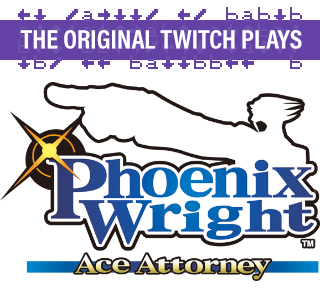
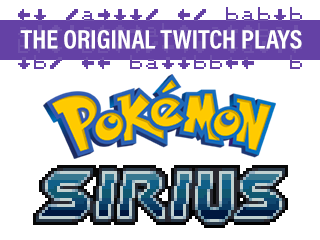
Sirius Update
This is a very Sirius one

diff --git a/description/active/runs/02 Commands.md b/description/active/runs/02 Commands.md
@@ -1,16 +1,20 @@
-For questions about any **!** command, use **!help [command]** to be whispered by the bot for more info. For a full list of commands, type **!commands**. Alternatively, go [here](https://twitchplayspokemon.tv/commands) for an in-depth explanation of all commands available on stream.
+For questions about any **!** command, use **!help [command name]** to be whispered by the bot for more info. Example: **!help balance**. For a full list of commands, type **!commands**. Alternatively, go [here](https://twitchplayspokemon.tv/commands) for an in-depth explanation of all commands available on stream.
 
-Currently playing **Phoenix Wright: Ace Attorney - Justice for All**.
-
-## Touchscreen Commands
-
-You can use **>** for coordinates to drag the touchscreen (**0,0>100,100**). Coordinates can be held down (**20,234-**), as well as combining them into to a regular command (**40,70+a**). Touchscreen commands cannot combine with themselves. The [TPPInputAssist Touchscreen Extension](https://github.com/chfoo/tppinputassist), made by Chfoo, can be used to make tapping in specific places of the screen easier by using your mouse, instead of having to type out the coordinates. Screen resolution is 256x192.
+Currently playing **Pokémon Sirius**.
 
 ## Available Commands
 
-Valid commands for **Phoenix Wright: Ace Attorney - Justice for All** are:
-- **Button commands**: **A, B, X, Y, L, R, Start, Select**
+- **Button commands**: **A, B, L, R, Start, Select**
 - **Directional commands**: **Up, Down, Left, Right**
+
+## Commander Mode commands
+
+- **Move**: Picks moves 1-4. Example: **Move3** to pick the third move in battle.
+- **Switch**: Picks Pokémon 1-6. Example: **Switch4** to switch to fourth Pokémon.
+- **Item**: Selects item by ID (if present in bag and applicable to battle). Example: **Item1** to use Master Ball. Full list of item IDs can be found [here](https://bulbapedia.bulbagarden.net/wiki/List_of_items_by_index_number_(Generation_III)).
+- **With**: Selects Pokémon 1-6 from use item menu. Example: **With2** to use item on second Pokémon.
+- **Catch**: Throws the currently selected ball.
+- **Run**: Runs from battle.
 
 ## Tips
 - Commands are not case sensitive - you can mix it up! For example, **StArT** will have the same effect as **start**.

diff --git a/description/active/runs/01 Header.md b/description/active/runs/01 Header.md
@@ -1,7 +1,14 @@
-For questions about any **!** command, use **!help [command]** to be whispered by the bot for more info. For a full list of commands, type **!commands**. Alternatively, go [here](https://twitchplayspokemon.tv/commands) for an in-depth explanation of all commands available on stream.
+For questions about any **!** command, use **!help [command name]** to be whispered by the bot for more info. Example: **!help balance**. For a full list of commands, type **!commands**. Alternatively, go [here](https://twitchplayspokemon.tv/commands) for an in-depth explanation of all commands available on stream.
 
 The stream clock is in the UTC timezone, you can use [this](https://time.is/UTC) to calculate your delay.
 
-In Twitch Plays Pokémon (TPP), you can submit commands through the chat box and control the current game of **Phoenix Wright: Ace Attorney - Justice for All**.
+In Twitch Plays Pokémon (TPP), you can submit commands through the chat box and control the current game of **Pokémon Sirius**.
+
+**Credits for this run go to:**
+- Dr. Akimbo and anonymous hackers - [Pokémon Sirius hack](https://www.pokecommunity.com/showthread.php?t=365959)
+- M4_used_rollout - Run manager, overlay
+- red031000 - Run manager
+- Legtendga - Run Emblems creator
+- WhatAboutGamingLive - Description
 
 ***Note:** TPP collects and uses some data about your Twitch account so you can play. Find out what data we collect, how we collect it, and what we use it for by reading our privacy statement [here](https://github.com/TwitchPlaysPokemon/tpp-streamdocs/blob/master/privacy/privacy-statement.md).*
